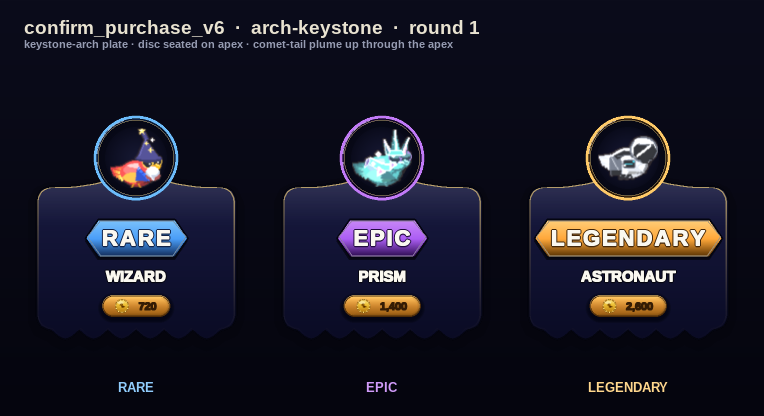
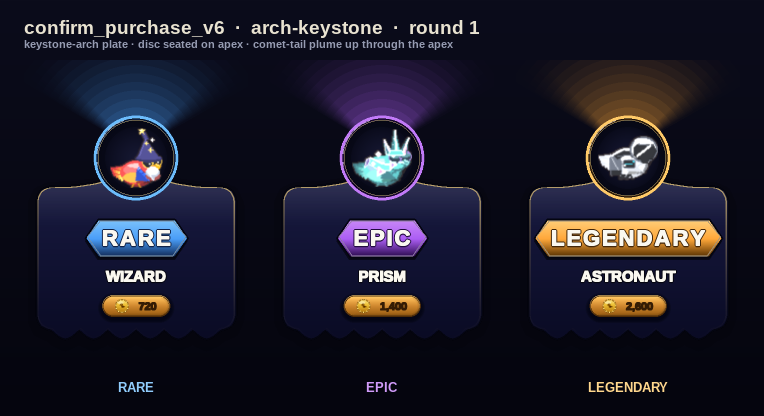
docs: confirm_purchase_v6 arch-keystone round_1
Claude-Session: https://claude.ai/code/session_011726ot8uBSmurQVaEkGY6K

Changed region(s): [[0.0903, 0.125, 0.2709, 0.3125], [0.7225, 0.125, 0.9332, 0.3125], [0.3914, 0.125, 0.6021, 0.3125]]

diff --git a/tools/_confirm_v6_arch_keystone_r1.py b/tools/_confirm_v6_arch_keystone_r1.py
@@ -251,26 +251,41 @@ def _norm(color, target_max=235):
 
 
 def comet_plume(base, gx, gy, radius, glow):
-    """A rising bloom that escapes straight up through the open apex: build a
-    standard soft_glow, then multiply it by a 120° upward wedge (±60° from
-    straight up, feathered at the cone edges) so only the upward stream survives,
-    and composite additively. BLEND_ADD ignores source alpha, so the wedge is
-    applied as an RGB multiply BEFORE the add."""
+    """A rising bloom that escapes straight up through the open apex.
+
+    Build a soft radial glow in the tier colour, then multiply it by a 120°
+    upward wedge (±60° from straight up, feathered at the cone edges) so only the
+    upward stream survives, and composite additively.
+
+    Two constraints drive the construction. (1) A plain additive stack of full
+    tier-colour circles saturates every channel to white, killing the hue — so
+    the radial falloff is built with BLEND_RGBA_MAX (constant tier RGB, alpha
+    stepping up toward the core) which keeps the tint pure. (2) BLEND_ADD only
+    touches RGB, so a plume over the TRANSPARENT canopy above the plate would end
+    up with alpha 0 and vanish — so the cone is applied as an ALPHA multiply and
+    the plume is laid down with BLEND_RGBA_ADD, carrying both its glow RGB and
+    the alpha that makes it visible over the scrim."""
     ng = _norm(glow)
     g = pygame.Surface(base.get_size(), pygame.SRCALPHA)
-    soft_glow(g, gx, gy, radius, ng, 56, layers=12)
+    layers = 16
+    for i in range(layers, 0, -1):
+        ri = int(radius * i / layers)
+        ai = int(200 * (1 - (i - 1) / layers) ** 1.8)
+        if ri <= 0 or ai <= 0:
+            continue
+        circ = pygame.Surface((ri * 2 + 2, ri * 2 + 2), pygame.SRCALPHA)
+        pygame.draw.circle(circ, (*ng, ai), (ri + 1, ri + 1), ri)
+        g.blit(circ, (gx - ri - 1, gy - ri - 1),
+               special_flags=pygame.BLEND_RGBA_MAX)
 
-    # feathered upward cone mask via thin angular slices taken with RGBA_MAX so
-    # overlaps smooth rather than accumulate. Straight up = -90°; full inside
-    # ±45°, ramping to zero out to ±60°.
+    # feathered upward cone mask via thin angular slices. Straight up = -90°;
+    # full inside ±45°, ramping to zero out to ±60°. RGB stays white so the
+    # multiply preserves the tier tint; alpha carries the wedge feather.
     mask = pygame.Surface(base.get_size(), pygame.SRCALPHA)
-    rr = radius * 1.15
+    rr = radius * 1.2
     for a in range(-150, -29):
         off = abs(a + 90)
-        if off <= 45:
-            v = 255
-        else:
-            v = int(255 * (1 - (off - 45) / 15))
+        v = 255 if off <= 45 else int(255 * (1 - (off - 45) / 15))
         if v <= 0:
             continue
         a0 = math.radians(a)
@@ -278,9 +293,9 @@ def comet_plume(base, gx, gy, radius, glow):
         tri = [(gx, gy),
                (gx + rr * math.cos(a0), gy + rr * math.sin(a0)),
                (gx + rr * math.cos(a1), gy + rr * math.sin(a1))]
-        pygame.draw.polygon(mask, (v, v, v, v), tri)
+        pygame.draw.polygon(mask, (255, 255, 255, v), tri)
     g.blit(mask, (0, 0), special_flags=pygame.BLEND_RGBA_MULT)
-    base.blit(g, (0, 0), special_flags=pygame.BLEND_ADD)
+    base.blit(g, (0, 0), special_flags=pygame.BLEND_RGBA_ADD)
 
 
 # ── disc (store-card cabochon DNA, tier-tinted) ───────────────────────────────
@@ -344,12 +359,7 @@ def render_popup(tier_word, sid, price, pal):
 
     gx, gy = m(CX), m(CY_DISC)
 
-    # 1) plume FIRST — behind the plate/disc, so it reads as bloom rising up out
-    #    of the apex; the convex arch top + the disc occlude its hot origin,
-    #    leaving only the upward stream showing above the apex.
-    comet_plume(big, gx, m(APEX_Y), m(int(R_DISC * 3.4)), pal["glow"])
-
-    # 2) plate: shadow -> silhouette-masked body gradient -> crown gloss -> bevel
+    # 1) plate: shadow -> silhouette-masked body gradient -> crown gloss -> bevel
     poly_drop_shadow(big, pts, blur=m(8), alpha=165, dy=m(4))
     minx, miny, maxx, maxy = _bbox(pts)
     bw = int(maxx - minx) + m(2)
@@ -365,6 +375,11 @@ def render_popup(tier_word, sid, price, pal):
     pygame.draw.polygon(fmask, (255, 255, 255, 255), pts)
     masked_top_sheen(big, pts, fmask, peak=60)
     poly_bevel(big, pts)
+
+    # 2) comet-tail plume rising up through the open apex — laid over the plate so
+    #    it blooms the crown, then occluded at its hot origin by the disc, leaving
+    #    only the upward stream showing above the apex.
+    comet_plume(big, gx, m(APEX_Y), m(int(R_DISC * 3.4)), pal["glow"])
 
     # 3) hero disc seated on the apex (lower 60% nested, top 40% overhanging)
     hero_disc(big, sid, gx, gy, m(R_DISC), pal)
